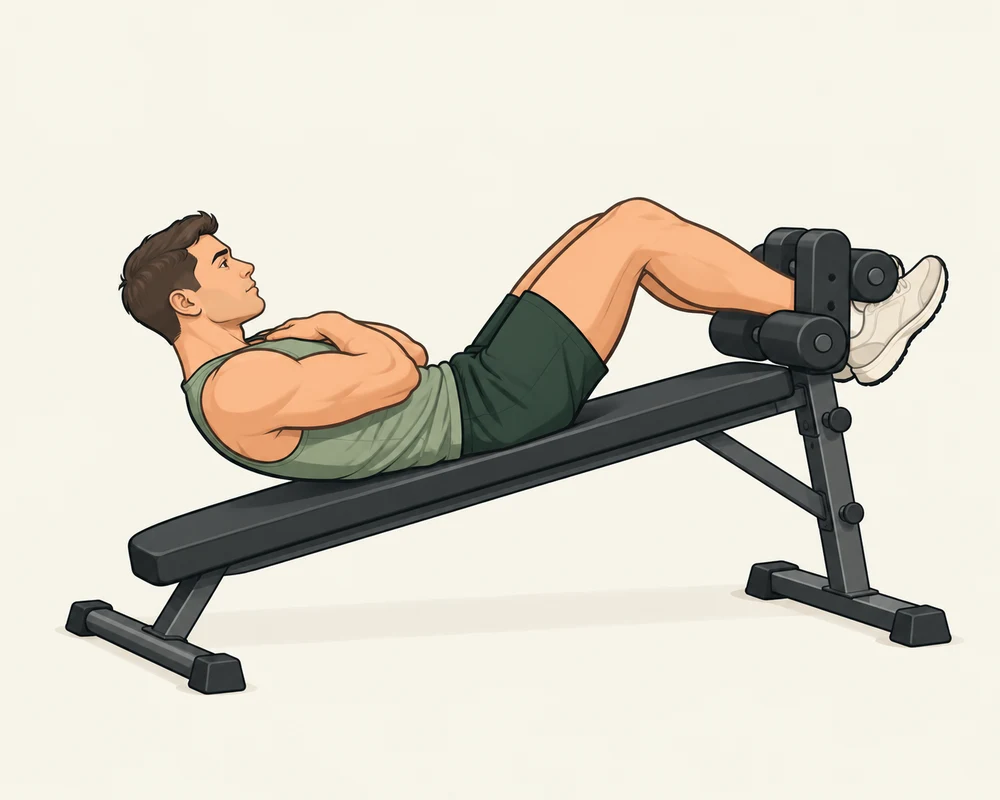
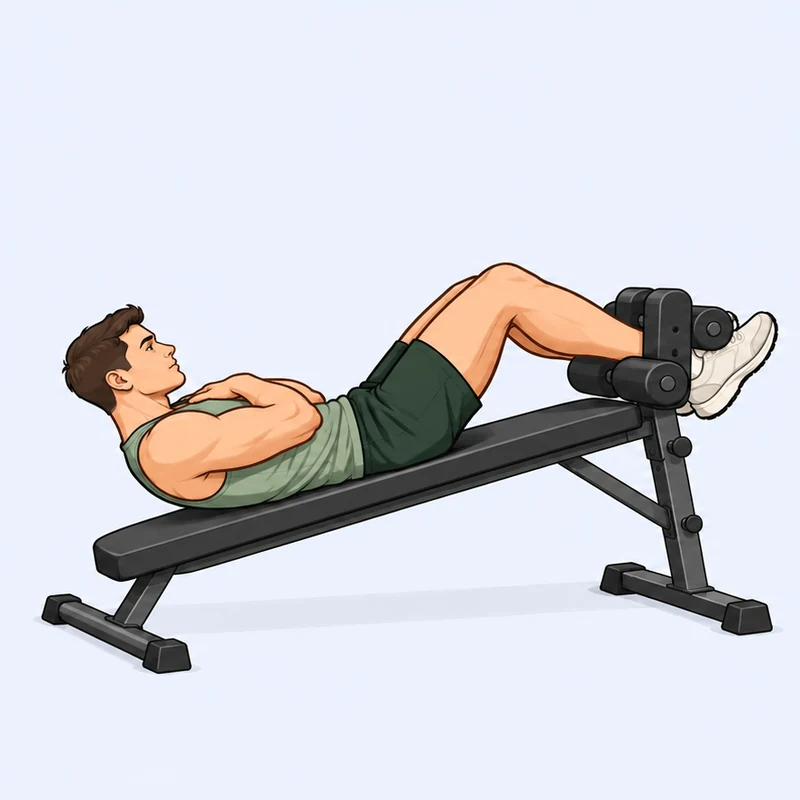
Use blue decline sit-up animation across workout profiles

Changed region(s): [[0.0312, 0.25, 0.9688, 0.875]]

diff --git a/src/App.tsx b/src/App.tsx
@@ -11,7 +11,7 @@ import { BodyAssessments } from './BodyAssessments';
 import { HoldRecorder } from './HoldRecorder';
 import { CloudBackupPanel } from './CloudBackup';
 import { ExercisePicker } from './ExercisePicker';
-import { ExerciseMotion, exerciseMotionId, workoutCoverUrl } from './ExerciseMotion';
+import { ExerciseMotion, exerciseMotionId, sharedExerciseMotionId, workoutCoverUrl } from './ExerciseMotion';
 import { HistoryEditor } from './HistoryEditor';
 import { MuscleBadge } from './components';
 import { Progression } from './ProgressionView';
@@ -352,6 +352,6 @@ export default function App() {
     </Modal>}
     {swapTarget && state.active && <Modal title="Trocar só neste treino" onClose={()=>setSwapTarget(null)} wide><p className="subtle">A ficha original será mantida. Escolha o substituto; sua carga salva será preenchida.</p><ExercisePicker exercises={state.active.exercises.map(snapshotExercise)} replacing={state.active.exercises.findIndex(e=>e.exerciseId===swapTarget)} onClose={()=>setSwapTarget(null)} onSelect={preset=>{commit(s=>swapSessionExercise(s,swapTarget,copyPreset(preset)));setSwapTarget(null);setNotice('Exercício trocado só para hoje.');}} /></Modal>}
     <StreakCelebration cloud={cloudStreak} person={state.selectedPlan ?? 'original'} blocked={!!dialog || !!preview} previewRequest={streakPreview} selfCompletion={selfCompletion} />
-    {preview && <ImagePreview image={preview.image} title={preview.title} motion={preview.motion} onClose={() => setPreview(null)} note={preview.exerciseId ? state.exerciseNotes?.[canonicalExerciseId(preview.exerciseId)] : undefined} onNote={preview.exerciseId ? note => commit(s => ({ ...s, exerciseNotes: { ...s.exerciseNotes, [canonicalExerciseId(preview.exerciseId!)]: note } })) : undefined} />}
+    {preview && <ImagePreview image={preview.image} title={preview.title} motion={preview.motion ?? sharedExerciseMotionId(preview.exerciseId, preview.image)} onClose={() => setPreview(null)} note={preview.exerciseId ? state.exerciseNotes?.[canonicalExerciseId(preview.exerciseId)] : undefined} onNote={preview.exerciseId ? note => commit(s => ({ ...s, exerciseNotes: { ...s.exerciseNotes, [canonicalExerciseId(preview.exerciseId!)]: note } })) : undefined} />}
   </div>;
 }

diff --git a/src/ExerciseMotion.tsx b/src/ExerciseMotion.tsx
@@ -10,14 +10,20 @@ const motionImages: Record<string, Record<string, number>> = {
   c: { 'lever-squat': 66, 'leg-press': 12, 'leg-extension': 13,
     'leg-curl': 14, 'lying-leg-curl': 56, 'hip-abduction': 64, 'calf-raise': 16 },
   d: { 'incline-dumbbell': 21, 'crossover': 22, 'parallel-bar-dips': 36,
-    'rope-pushdown': 3, 'military-situp': 35, 'decline-situp': 34 },
+    'rope-pushdown': 3, 'military-situp': 35 },
   e: { 'assisted-pullup': 68, 'cable-row': 7, 'preacher-curl': 10,
     'cable-curl': 29, 'rope-curl': 32, 'cable-lateral-raise': 59, 'shoulder-press': 18, 'face-pull': 67 },
   home: { 'tuck-front-lever': 24, 'hanging-leg-raise': 49 },
 };
 
-// Enable only the illustrated workouts in Bruno's plan; custom artwork keeps its own image.
+export function sharedExerciseMotionId(id: string | undefined, image: number) {
+  return id === 'decline-situp' && image === 34 ? id : undefined;
+}
+
+// Some animations are shared by all profiles. The original set remains tied to Bruno's workouts.
 export function exerciseMotionId(plan: string | undefined, workout: string, id: string, image: number) {
+  const shared = sharedExerciseMotionId(id, image);
+  if (shared) return shared;
   return (!plan || plan === 'original') && motionImages[workout]?.[id] === image ? id : undefined;
 }
 
